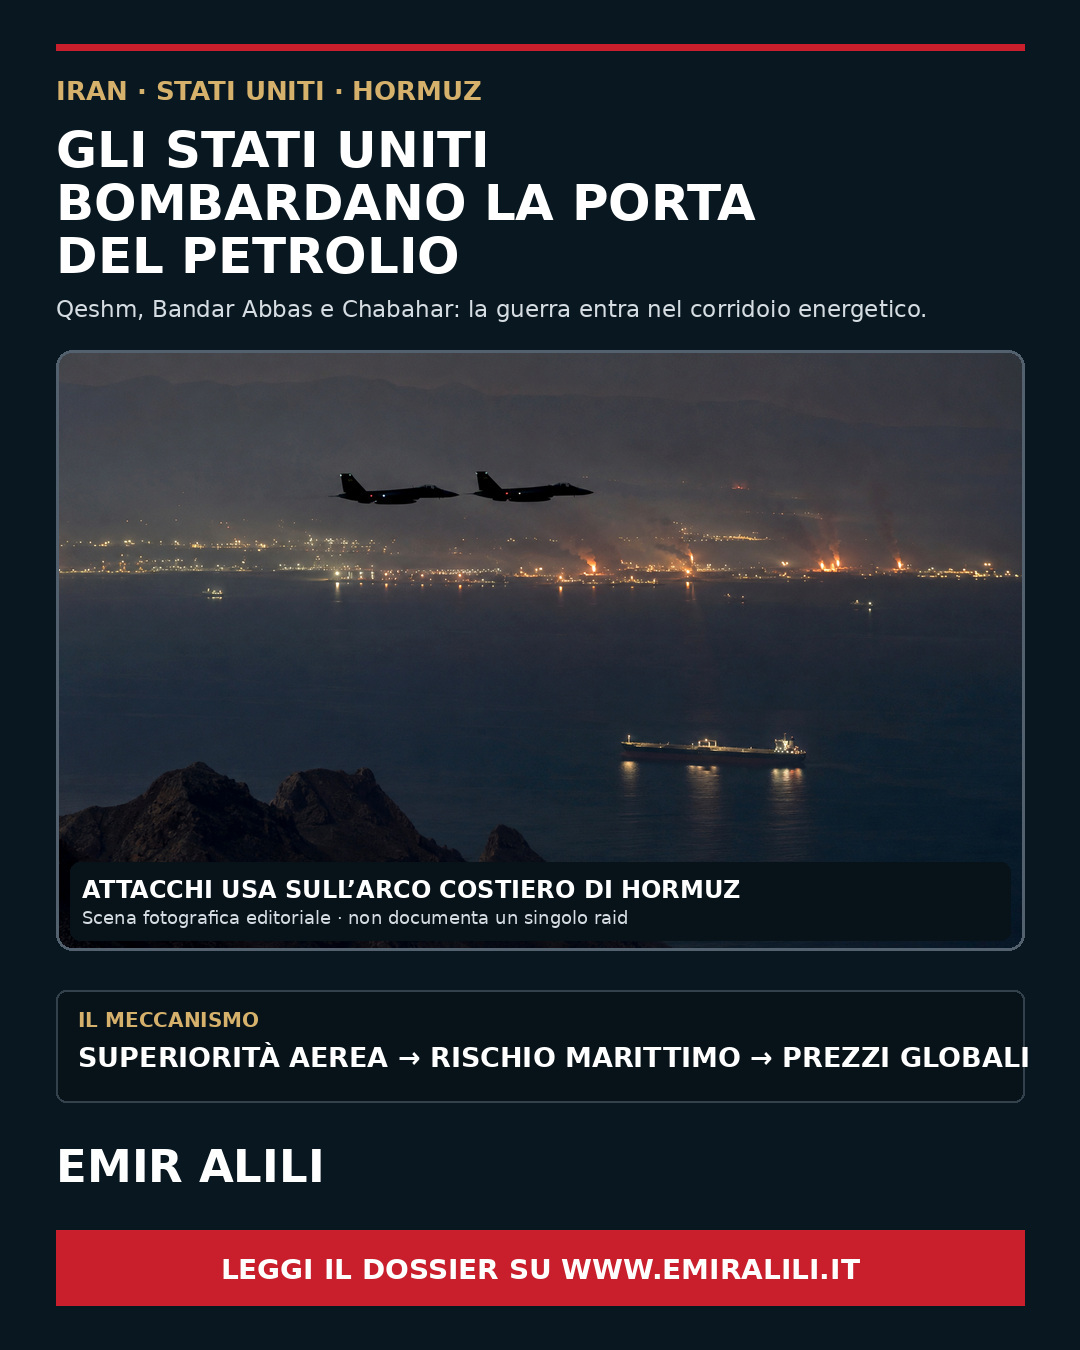
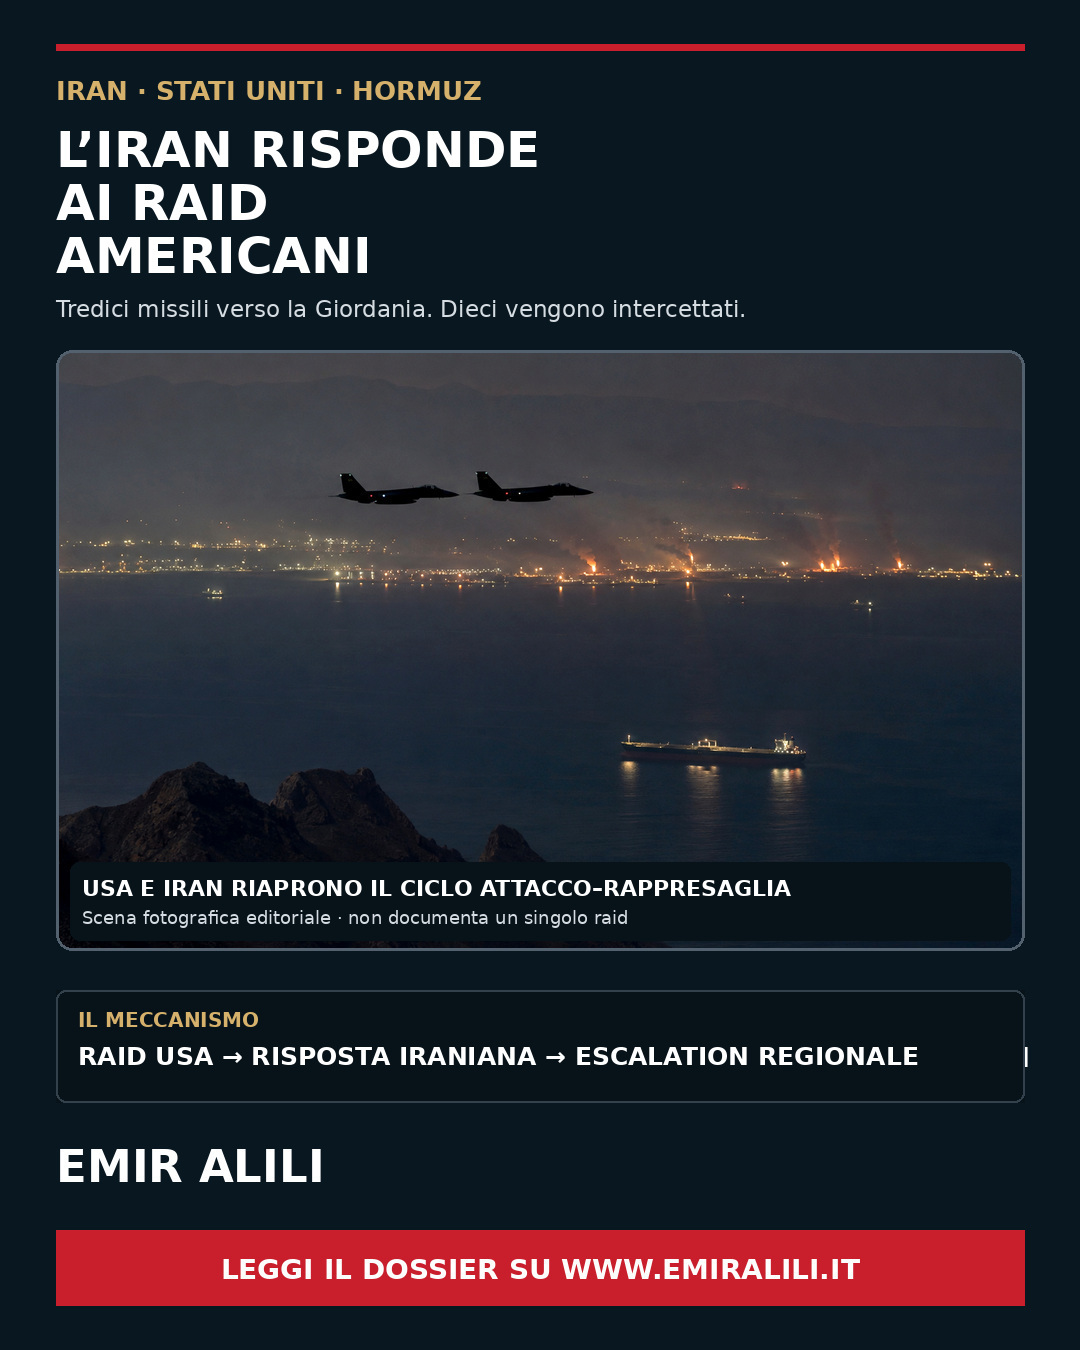
Update US-Iran dossier with Iranian retaliation

Changed region(s): [[0.0611, 0.0933, 0.8556, 0.2489], [0.0611, 0.7778, 0.9472, 0.8089], [0.0611, 0.6533, 0.7333, 0.6844]]

diff --git a/usa-bombarda-hormuz-iran-escalation.html b/usa-bombarda-hormuz-iran-escalation.html
@@ -6,18 +6,19 @@
 <meta name="description" content="Gli USA ampliano gli attacchi lungo Qeshm, Bandar Abbas e Chabahar. Hormuz diventa il punto in cui potenza militare, shipping e prezzo dell’energia si saldano.">
 <link rel="canonical" href="https://emiralili.it/usa-bombarda-hormuz-iran-escalation.html"><meta name="robots" content="index,follow,max-image-preview:large">
 <meta property="og:type" content="article"><meta property="og:locale" content="it_IT"><meta property="og:site_name" content="Emir Alili"><meta property="og:title" content="Gli Stati Uniti bombardano la porta del petrolio"><meta property="og:description" content="La nuova ondata di attacchi USA porta la guerra sul corridoio Qeshm–Bandar Abbas–Chabahar. Shipping, mine e prezzo del greggio diventano strumenti coercitivi."><meta property="og:url" content="https://emiralili.it/usa-bombarda-hormuz-iran-escalation.html"><meta property="og:image" content="https://emiralili.it/assets/social/usa-bombarda-hormuz-iran-escalation-instagram.jpg">
-<meta property="article:published_time" content="2026-09-01T23:05:00+02:00"><meta property="article:modified_time" content="2026-09-01T23:05:00+02:00"><meta name="twitter:card" content="summary_large_image"><meta name="twitter:title" content="Gli Stati Uniti bombardano la porta del petrolio"><meta name="twitter:description" content="Qeshm, Bandar Abbas e Chabahar: la guerra entra nel corridoio materiale di Hormuz."><meta name="twitter:image" content="https://emiralili.it/assets/social/usa-bombarda-hormuz-iran-escalation-instagram.jpg">
+<meta property="article:published_time" content="2026-09-01T23:05:00+02:00"><meta property="article:modified_time" content="2026-09-02T00:05:00+02:00"><meta name="twitter:card" content="summary_large_image"><meta name="twitter:title" content="Gli Stati Uniti bombardano la porta del petrolio"><meta name="twitter:description" content="L’Iran risponde sui siti USA in Giordania: Hormuz riapre il ciclo attacco-rappresaglia."><meta name="twitter:image" content="https://emiralili.it/assets/social/usa-bombarda-hormuz-iran-escalation-instagram.jpg">
 <link rel="stylesheet" href="editorial.css?v=3"><link rel="stylesheet" href="modern.css?v=4">
-<script type="application/ld+json">{"@context":"https://schema.org","@type":"NewsArticle","headline":"Gli Stati Uniti bombardano la porta del petrolio","description":"Gli USA ampliano gli attacchi lungo Qeshm, Bandar Abbas e Chabahar. Hormuz diventa il punto in cui potenza militare, shipping e prezzo dell’energia si saldano.","image":["https://emiralili.it/assets/social/usa-bombarda-hormuz-iran-escalation-instagram.jpg"],"datePublished":"2026-09-01T23:05:00+02:00","dateModified":"2026-09-01T23:05:00+02:00","articleSection":"Medio Oriente · Iran e Hormuz","inLanguage":"it-IT","author":{"@type":"Person","name":"Emir Alili — Presidente MDP","url":"https://emiralili.it/chi-sono.html"},"publisher":{"@type":"Organization","name":"Emir Alili","url":"https://emiralili.it/"},"mainEntityOfPage":{"@type":"WebPage","@id":"https://emiralili.it/usa-bombarda-hormuz-iran-escalation.html"},"isAccessibleForFree":true}</script></head>
+<script type="application/ld+json">{"@context":"https://schema.org","@type":"NewsArticle","headline":"Gli Stati Uniti bombardano la porta del petrolio","description":"Gli USA ampliano gli attacchi lungo Qeshm, Bandar Abbas e Chabahar. L’Iran risponde contro installazioni americane in Giordania.","image":["https://emiralili.it/assets/social/usa-bombarda-hormuz-iran-escalation-instagram.jpg"],"datePublished":"2026-09-01T23:05:00+02:00","dateModified":"2026-09-02T00:05:00+02:00","articleSection":"Medio Oriente · Iran e Hormuz","inLanguage":"it-IT","author":{"@type":"Person","name":"Emir Alili — Presidente MDP","url":"https://emiralili.it/chi-sono.html"},"publisher":{"@type":"Organization","name":"Emir Alili","url":"https://emiralili.it/"},"mainEntityOfPage":{"@type":"WebPage","@id":"https://emiralili.it/usa-bombarda-hormuz-iran-escalation.html"},"isAccessibleForFree":true}</script></head>
 <body class="report"><header><a class="logo" href="/"><span>EA</span><b>Emir Alili</b></a><nav><a href="/">Home</a><a href="chi-sono.html">Chi sono</a><a href="analisi.html">Geopolitica</a><a href="contatti.html">Contatti</a></nav><button class="menu" aria-label="Apri menu"><i></i><i></i></button></header><div class="mobile-nav"><a href="/">Home</a><a href="chi-sono.html">Chi sono</a><a href="analisi.html">Geopolitica</a><a href="contatti.html">Contatti</a></div>
-<main class="report-main"><div class="report-head"><p class="section-tag">Iran · Stati Uniti · Hormuz</p><h1>Gli Stati Uniti bombardano la porta del petrolio</h1><p class="report-deck">La nuova ondata di attacchi USA attraversa l’arco Qeshm–Bandar Abbas–Chabahar. Washington colpisce il dispositivo iraniano affacciato sullo Stretto; Teheran conserva un veto asimmetrico su mine, navi e flussi energetici.</p><div class="report-meta"><span>Emir Alili — Presidente MDP</span><time datetime="2026-09-01T23:05:00+02:00">1° settembre 2026, ore 23:05</time></div></div>
+<main class="report-main"><div class="report-head"><p class="section-tag">Iran · Stati Uniti · Hormuz</p><h1>Gli Stati Uniti bombardano la porta del petrolio</h1><p class="report-deck">La nuova ondata di attacchi USA attraversa l’arco Qeshm–Bandar Abbas–Chabahar. Teheran risponde contro installazioni americane in Giordania: il corridoio di Hormuz riapre il ciclo attacco-rappresaglia.</p><div class="report-meta"><span>Emir Alili — Presidente MDP</span><time datetime="2026-09-01T23:05:00+02:00">1° settembre 2026, ore 23:05</time><span>Aggiornato il 2 settembre 2026</span></div></div>
 <figure class="report-cover"><img src="/assets/social/usa-bombarda-hormuz-iran-escalation-instagram.jpg" alt="Copertina fotografica con aerei militari sopra il Golfo, una petroliera e incendi sulla costa durante l’escalation USA-Iran" width="1080" height="1350"><figcaption>Elaborazione editoriale su base fotografica generata. La scena rappresenta il meccanismo militare e marittimo; non documenta uno specifico attacco.</figcaption></figure>
 <aside class="report-summary"><b>CONSIDERAZIONI CHIAVE</b><ul><li>CENTCOM ha dichiarato che gli attacchi sono iniziati alle 16:00 GMT del 1° settembre contro obiettivi dei Guardiani della rivoluzione.</li><li>Reuters ha documentato esplosioni o attacchi riferiti nell’asse Qeshm, Bandar Abbas e Chabahar; lista completa dei bersagli, danni e vittime non sono ancora pubblici.</li><li>La motivazione americana — tentati attacchi contro navi commerciali e militari USA — è una dichiarazione ufficiale, non una prova indipendente resa pubblica.</li><li>JMIC mantiene il rischio marittimo a livello <em>severe</em>: azione ostile altamente probabile, interferenze GNSS, deviazioni e operazioni di sminamento.</li><li>Il Brent ha chiuso a 94,65 dollari e il diesel USA a un massimo di 52 mesi: la coercizione militare entra immediatamente nei prezzi.</li></ul></aside>
 <div class="report-body">
+<section><p class="chapter">AGGIORNAMENTO · 2 SETTEMBRE 2026</p><h2>L’Iran risponde in Giordania; compaiono le prime vittime civili</h2><p>L’esercito giordano ha dichiarato che 13 missili balistici iraniani sono entrati nello spazio aereo del regno: dieci sono stati intercettati e tre sono caduti in aree remote. I Guardiani della rivoluzione hanno rivendicato un attacco contro Camp Titin, vicino ad Aqaba, sostenendo di aver provocato numerose vittime e distrutto installazioni ed elicotteri. <strong>Due funzionari statunitensi citati da Reuters hanno negato vittime o danni.</strong> La rappresaglia iraniana è quindi confermata; gli effetti rivendicati da Teheran non lo sono.</p><p>Nel sud dell’Iran, la Mezzaluna Rossa iraniana ha riferito che frammenti di un missile americano hanno colpito un’abitazione durante un matrimonio a Kuhestak, nella contea di Sirik: quattro morti, tra cui un bambino, e oltre cinquanta feriti. Gli Stati Uniti non hanno ancora commentato l’episodio. Il bilancio proviene da un organismo iraniano ed è ripreso da più testate; resta necessaria una verifica indipendente del punto d’impatto e della dinamica.</p><p>Il nuovo dato materiale è il ritorno alla reciprocità militare diretta. Washington bombarda il litorale iraniano; Teheran usa la profondità regionale delle basi americane come bersaglio. <strong>La superiorità USA non elimina la capacità iraniana di trasferire l’escalation agli Stati che ospitano infrastrutture militari americane.</strong></p></section>
 <section><p class="chapter">01 · Il fatto &amp; la manovra egemonica</p><h2>Dall’interdizione navale al bombardamento del corridoio</h2><p>Il 1° settembre il Comando centrale statunitense ha annunciato una nuova ondata di attacchi contro obiettivi dei Guardiani della rivoluzione iraniana. Reuters colloca l’inizio alle 16:00 GMT e riferisce esplosioni a Qeshm e Bandar Abbas, oltre ad attacchi nell’area di Chabahar. La televisione iraniana ha affermato che sarebbe stato colpito anche l’aeroporto civile di Jiroft. <strong>Quest’ultimo elemento resta una dichiarazione iraniana: non è ancora accompagnato da una verifica indipendente accessibile.</strong></p><p>Washington sostiene di aver reagito a tentativi iraniani di colpire naviglio commerciale e personale americano. Donald Trump ha aggiunto il presunto tentativo di posa di mine e il lancio di otto missili contro una base USA in Giordania. Sono motivazioni ufficiali, ma al momento non è stata resa pubblica una catena probatoria completa. Il fatto documentato è l’attacco americano; attribuzioni, bersagli precisi ed effetti restano parziali.</p><p>La scala geografica cambia il quadro. L’attacco non riguarda un singolo punto: investe il sistema iraniano affacciato sul Golfo e sull’Oceano Indiano. <strong>La manovra mira a trasformare la superiorità aeronavale americana in controllo coercitivo del corridoio energetico.</strong> Non è semplice “sicurezza della navigazione”: è la capacità di decidere chi può minacciare, attraversare o assicurare la rotta.</p></section>
 <section><p class="chapter">02 · I vettori di controllo</p><h2>Aerei, blocco, mine, GNSS e prezzo dell’energia</h2><p>Il bombardamento opera sopra una struttura già compressa. Il JMIC segnala livello di minaccia <strong>severe</strong>, azione ostile altamente probabile, interferenze GNSS persistenti, chiamate dirette alle navi, deviazioni e sminamento. Nello stesso spazio, gli Stati Uniti mantengono l’interdizione sul petrolio iraniano mentre gli armatori valutano rischio fisico, assicurativo e contrattuale.</p><p>Reuters calcola che in agosto le spedizioni iraniane siano scese a 220–255 mila barili al giorno, contro circa due milioni in marzo. È una stima fondata su dati commerciali privati e non verificata autonomamente dall’agenzia. Più solido è il segnale di mercato: il Brent ha chiuso il 1° settembre a 94,65 dollari, il WTI a 90,22 e i futures sul diesel americano al massimo da 52 mesi. I margini di raffinazione hanno toccato livelli record.</p><p>Il meccanismo è lineare: rischio militare → premio assicurativo e deviazioni → minore offerta percepita → rialzo di greggio e prodotti raffinati. Il costo non rimane tra Washington e Teheran. Si trasferisce a importatori, trasporti, industria e famiglie.</p></section>
 <section><p class="chapter">03 · Mappa dei rapporti di forza</p><h2>Superiorità americana, veto iraniano e dipendenze del Golfo</h2><p><strong>Gli Stati Uniti</strong> possiedono la superiorità aerea, navale, satellitare e logistica. Possono colpire porti, radar, batterie e catene di comando. <strong>L’Iran</strong> non deve eguagliare questa potenza: gli basta mantenere un potere di interdizione tramite mine, missili, droni, abbordaggi e incertezza sull’attribuzione.</p><p><strong>Arabia Saudita, Emirati, Oman e Qatar</strong> hanno interesse alla libertà di navigazione ma pagano l’allargamento della guerra vicino alle proprie infrastrutture. <strong>Cina e importatori asiatici</strong> subiscono il controllo americano sulla rotta e la riduzione dell’offerta iraniana. Armatori e assicuratori guadagnano premi maggiori solo finché il rischio resta prezzabile; oltre quella soglia, sospendono i transiti.</p><p>L’asse Washington–Tel Aviv è pertinente alla guerra più ampia iniziata con operazioni congiunte contro l’Iran. <strong>Non esiste però, nelle fonti pubbliche esaminate, prova di un ruolo operativo israeliano negli attacchi statunitensi del 1° settembre.</strong> Attribuirlo sarebbe trasformare un contesto strategico in un fatto non dimostrato.</p></section>
 <section><p class="chapter">04 · Cui prodest?</p><h2>Chi controlla la rotta trasferisce il costo</h2><p>Washington ottiene una leva immediata: comprimere l’export iraniano, proteggere formalmente il traffico alleato e dimostrare che la libertà commerciale nel Golfo dipende dalla potenza americana. I produttori esterni a Hormuz e le raffinerie con accesso a greggi alternativi beneficiano di prezzi e margini più alti.</p><p>Teheran perde ricavi e infrastrutture, ma conserva il potere di rendere costosa la vittoria americana. Ogni mina possibile, segnale GNSS disturbato o nave colpita obbliga Washington a spendere capitale militare e gli importatori a comprare sicurezza. I Paesi del Golfo vedono ridursi la propria autonomia: la protezione delle esportazioni li lega ancora più strettamente agli apparati USA.</p><p><strong>Il prezzo finale viene trasferito fuori dal teatro di guerra.</strong> Africa, Asia ed Europa pagano noli, diesel, inflazione e tassi. Il corridoio di Hormuz non è soltanto il luogo dell’attacco: è la macchina che converte la forza militare in disciplina commerciale globale.</p></section>
-<section class="document-box"><p class="chapter">Fonti e documenti</p><h2>Fonti consultate</h2><a href="https://www.reuters.com/world/middle-east/iran-urges-us-comply-with-interim-deal-after-trump-threatens-further-strikes-2026-09-01/"><b>Reuters</b><span>Attacchi, località, posizioni USA e iraniane, 1° settembre 2026</span></a><a href="https://www.reuters.com/world/trump-says-latest-strikes-iran-are-justified-warns-tehran-against-retaliation-2026-09-01/"><b>Reuters</b><span>Dichiarazioni di Trump e motivazione americana</span></a><a href="https://www.ukmto.org/-/media/ukmto/products/update-092-jmic-advisory-note-01-september.pdf?rev=0f1bb3938b3c4f28a67bdf5057256c46"><b>JMIC / UKMTO</b><span>Threat level, transiti, GNSS, deviazioni e sminamento</span></a><a href="https://www.reuters.com/business/energy/oil-prices-rise-latest-fighting-resurrects-middle-east-supply-disruption-risks-2026-09-01/"><b>Reuters</b><span>Brent, WTI, diesel e margini di raffinazione</span></a><a href="https://www.reuters.com/business/energy/blockade-succeeds-where-sanctions-failed-iran-oil-exports-stall-2026-09-01/"><b>Reuters</b><span>Stime sulle esportazioni iraniane e sulle petroliere ferme</span></a></section>
+<section class="document-box"><p class="chapter">Fonti e documenti</p><h2>Fonti consultate</h2><a href="https://www.reuters.com/world/middle-east/iran-urges-us-comply-with-interim-deal-after-trump-threatens-further-strikes-2026-09-01/"><b>Reuters</b><span>Attacchi, località, posizioni USA e iraniane, 1° settembre 2026</span></a><a href="https://www.reuters.com/world/trump-says-latest-strikes-iran-are-justified-warns-tehran-against-retaliation-2026-09-01/"><b>Reuters</b><span>Dichiarazioni di Trump e motivazione americana</span></a><a href="https://apnews.com/article/ad84a64884aedbbd1e5914182bb3cd8d"><b>Associated Press</b><span>Rappresaglia iraniana, intercettazioni giordane e bilancio civile nel sud dell’Iran</span></a><a href="https://www.theguardian.com/world/live/2026/sep/01/us-iran-military-strikes-live-updates"><b>The Guardian</b><span>Dichiarazioni dell’esercito giordano, Mezzaluna Rossa iraniana e smentita USA</span></a><a href="https://www.ukmto.org/-/media/ukmto/products/update-092-jmic-advisory-note-01-september.pdf?rev=0f1bb3938b3c4f28a67bdf5057256c46"><b>JMIC / UKMTO</b><span>Threat level, transiti, GNSS, deviazioni e sminamento</span></a><a href="https://www.reuters.com/business/energy/oil-prices-rise-latest-fighting-resurrects-middle-east-supply-disruption-risks-2026-09-01/"><b>Reuters</b><span>Brent, WTI, diesel e margini di raffinazione</span></a><a href="https://www.reuters.com/business/energy/blockade-succeeds-where-sanctions-failed-iran-oil-exports-stall-2026-09-01/"><b>Reuters</b><span>Stime sulle esportazioni iraniane e sulle petroliere ferme</span></a></section>
 <section class="internal-links"><p class="chapter">Collegamenti</p><h2>Analisi correlate</h2><ul><li><a href="usa-larak-hormuz-attacco-mine.html">Due superpetroliere sotto tiro a Hormuz</a></li><li><a href="iran-banque-misr-dollaro-sanzioni.html">Il dollaro chiude il conto all’Iran</a></li><li><a href="qatar-gas-hormuz-rendita-americana.html">Il gas fermo, la rendita americana</a></li><li><a href="trump-kharg-video-ai-guerra-petrolio.html">Kharg brucia nel video di Trump</a></li></ul></section>
 </div></main><footer><a class="logo" href="/"><span>EA</span><b>Emir Alili</b></a><p>© 2026 Emir Alili</p><a href="analisi.html">Tutte le analisi ↑</a></footer><script src="modern.js?v=2"></script></body></html>

diff --git a/index.html b/index.html
@@ -9,7 +9,7 @@
 <div class="mobile-nav"><a href="/">Home</a><a href="#ultime">Ultime analisi</a><a href="analisi.html">Geopolitica</a><a href="metodo.html">Metodo</a><a href="chi-sono.html">Chi sono</a><a href="contatti.html">Contatti</a></div><main>
 <section class="geo-home-hero"><div class="geo-home-hero-copy"><p class="kicker">Osservatorio geopolitico indipendente</p><h1>Geopolitica<em>oltre la cronaca.</em></h1><p>Dossier documentati per comprendere interessi, rapporti di forza e strumenti del potere dietro le crisi internazionali. Medio Oriente, Europa, energia, sanzioni, intelligence e trasformazioni dell’ordine globale.</p><div class="hero-actions"><a class="btn solid" href="#ultime">Leggi l’ultimo dossier ↓</a><a class="btn line" href="metodo.html">Il metodo “Cui prodest?” ↗</a></div></div></section>
 <div class="geo-ticker"><span>Medio Oriente</span><span>Palestina e Israele</span><span>Energia e sanzioni</span><span>Europa e NATO</span><span>Russia e Cina</span><span>Balcani</span></div>
-<section class="home-feature" id="ultime"><div class="home-editorial-head"><p class="section-tag">In primo piano</p><h2>L’analisi al centro.</h2></div><a class="feature-dossier" href="usa-bombarda-hormuz-iran-escalation.html"><figure><img src="/assets/social/usa-bombarda-hormuz-iran-escalation-instagram.jpg" alt="Copertina fotografica del dossier sugli attacchi USA lungo il corridoio di Hormuz" width="1080" height="1350"></figure><div class="feature-copy"><span>Iran · Stati Uniti · Hormuz</span><time datetime="2026-09-01T23:05:00+02:00">1° settembre 2026 · 23:05</time><h3>Gli Stati Uniti bombardano la porta del petrolio</h3><p>Qeshm, Bandar Abbas e Chabahar: la guerra entra nel corridoio che lega potenza militare, shipping e prezzo dell’energia.</p><b>Leggi il dossier →</b></div></a></section>
+<section class="home-feature" id="ultime"><div class="home-editorial-head"><p class="section-tag">In primo piano</p><h2>L’analisi al centro.</h2></div><a class="feature-dossier" href="usa-bombarda-hormuz-iran-escalation.html"><figure><img src="/assets/social/usa-bombarda-hormuz-iran-escalation-instagram.jpg" alt="Copertina fotografica del dossier sullo scambio di attacchi tra Stati Uniti e Iran" width="1080" height="1350"></figure><div class="feature-copy"><span>Iran · Stati Uniti · Hormuz</span><time datetime="2026-09-02T00:05:00+02:00">Aggiornato il 2 settembre 2026</time><h3>L’Iran risponde ai raid americani</h3><p>La Giordania intercetta dieci missili iraniani. Nel sud dell’Iran la Mezzaluna Rossa riferisce quattro morti e oltre cinquanta feriti.</p><b>Leggi il dossier →</b></div></a></section>
 <section class="geo-publications home-latest"><div class="home-editorial-head"><p class="section-tag">Ultime pubblicazioni</p><h2>Dossier recenti.</h2></div><div class="geo-grid home-dossier-grid">
 <a class="geo-card" href="macedonia-eximbank-ungheria-prestito-inchiesta.html"><img src="/assets/social/macedonia-eximbank-ungheria-inchiesta-instagram-v2.jpg" alt="Copertina del dossier sul miliardo Eximbank ungherese prestato alla Macedonia del Nord e incluso in un’indagine penale" width="1080" height="1350"><span>Balcani e Macedonia · Finanza politica</span><time datetime="2026-09-01T14:05:00+02:00">1 settembre 2026 · 14:05</time><h3>Il miliardo sotto inchiesta</h3><p>La polizia ungherese indaga su Eximbank: due prestiti a Skopje, garanzia pubblica e debito usato come leva regionale.</p><b>Leggi →</b></a>
 <a class="geo-card" href="trump-kharg-video-ai-guerra-petrolio.html"><img src="/assets/social/trump-kharg-video-ai-guerra-petrolio-instagram.jpg" alt="Copertina del dossier sul video sintetico pubblicato da Donald Trump e riferito a Kharg" width="1080" height="1350"><span>Stati Uniti · Iran, IA e petrolio</span><time datetime="2026-08-31T07:06:00+02:00">31 agosto 2026 · 07:06</time><h3>Kharg brucia nel video di Trump</h3><p>Reuters identifica il filmato come generato con IA; un attacco reale al terminale petrolifero non risulta provato.</p><b>Leggi →</b></a>

diff --git a/analisi.html b/analisi.html
@@ -37,7 +37,7 @@
 <div class="archive-status" aria-live="polite"><p id="active-area">Tutte le pubblicazioni</p><span id="result-count">62 dossier</span></div>
 </section>
 <section class="archive-list" id="archive-results">
-<a class="archive-entry" href="usa-bombarda-hormuz-iran-escalation.html" data-area="medio-oriente" data-search="iran stati uniti usa centcom trump hormuz qeshm bandar abbas chabahar jiroft bombardamenti attacchi shipping mine gnss petrolio diesel brent blocco"><div class="entry-meta"><time datetime="2026-09-01T23:05:00+02:00">1° settembre 2026 · 23:05</time><span>Medio Oriente</span></div><div class="entry-copy"><h2>Gli Stati Uniti bombardano la porta del petrolio</h2><p>La nuova ondata di attacchi attraversa l’arco Qeshm–Bandar Abbas–Chabahar e salda forza militare, shipping e prezzi energetici.</p></div><b>Leggi ↗</b></a>
+<a class="archive-entry" href="usa-bombarda-hormuz-iran-escalation.html" data-area="medio-oriente" data-search="iran stati uniti usa centcom trump hormuz qeshm bandar abbas chabahar jiroft giordania aqaba camp titin missili rappresaglia shipping mine gnss petrolio diesel brent blocco"><div class="entry-meta"><time datetime="2026-09-02T00:05:00+02:00">Aggiornato il 2 settembre 2026</time><span>Medio Oriente</span></div><div class="entry-copy"><h2>L’Iran risponde ai raid americani</h2><p>La Giordania intercetta dieci missili iraniani; nel sud dell’Iran la Mezzaluna Rossa riferisce quattro morti e oltre cinquanta feriti.</p></div><b>Leggi ↗</b></a>
 <a class="archive-entry" href="macedonia-eximbank-ungheria-prestito-inchiesta.html" data-area="balcani-macedonia" data-search="macedonia nord ungheria budapest skopje eximbank prestito miliardo euro orban mickoski debito garanzia cina banche influenza finanza politica indagine"><div class="entry-meta"><time datetime="2026-09-01T14:05:00+02:00">1 settembre 2026 · 14:05</time><span>Balcani e Macedonia</span></div><div class="entry-copy"><h2>Il miliardo sotto inchiesta</h2><p>La polizia ungherese indaga sul credito Eximbank a Skopje: garanzia pubblica, debito bilaterale e influenza regionale.</p></div><b>Leggi ↗</b></a>
 <a class="archive-entry" href="patto-mecca-pakistan-arabia-saudita-turchia.html" data-area="medio-oriente" data-search="alleanza difesa mecca patto pakistan arabia saudita turchia comitato strategico riyadh segretariato deterrenza industria militare sicurezza regionale"><div class="entry-meta"><time datetime="2026-08-31T16:25:00+02:00">Aggiornato il 31 agosto 2026</time><span>Medio Oriente</span></div><div class="entry-copy"><h2>L’Alleanza di difesa della Mecca prende forma</h2><p>Il primo Comitato assegna il nome ufficiale, avvia gli organi comuni e fissa il segretariato a Riyadh; comando ed esercitazioni restano da verificare.</p></div><b>Leggi ↗</b></a>
 <a class="archive-entry" href="trump-kharg-video-ai-guerra-petrolio.html" data-area="ordine-mondiale" data-search="stati uniti usa trump iran kharg khark video intelligenza artificiale ia sintetico deepfake disinformazione guerra petrolio terminale hormuz truth social mercati brent propaganda coercizione"><div class="entry-meta"><time datetime="2026-08-31T07:06:00+02:00">31 agosto 2026 · 07:06</time><span>Ordine mondiale</span></div><div class="entry-copy"><h2>Kharg brucia nel video di Trump</h2><p>Il presidente pubblica un filmato probabilmente sintetico: il raid non è confermato, ma la minaccia sul terminale petrolifero produce già effetti.</p></div><b>Leggi ↗</b></a>
